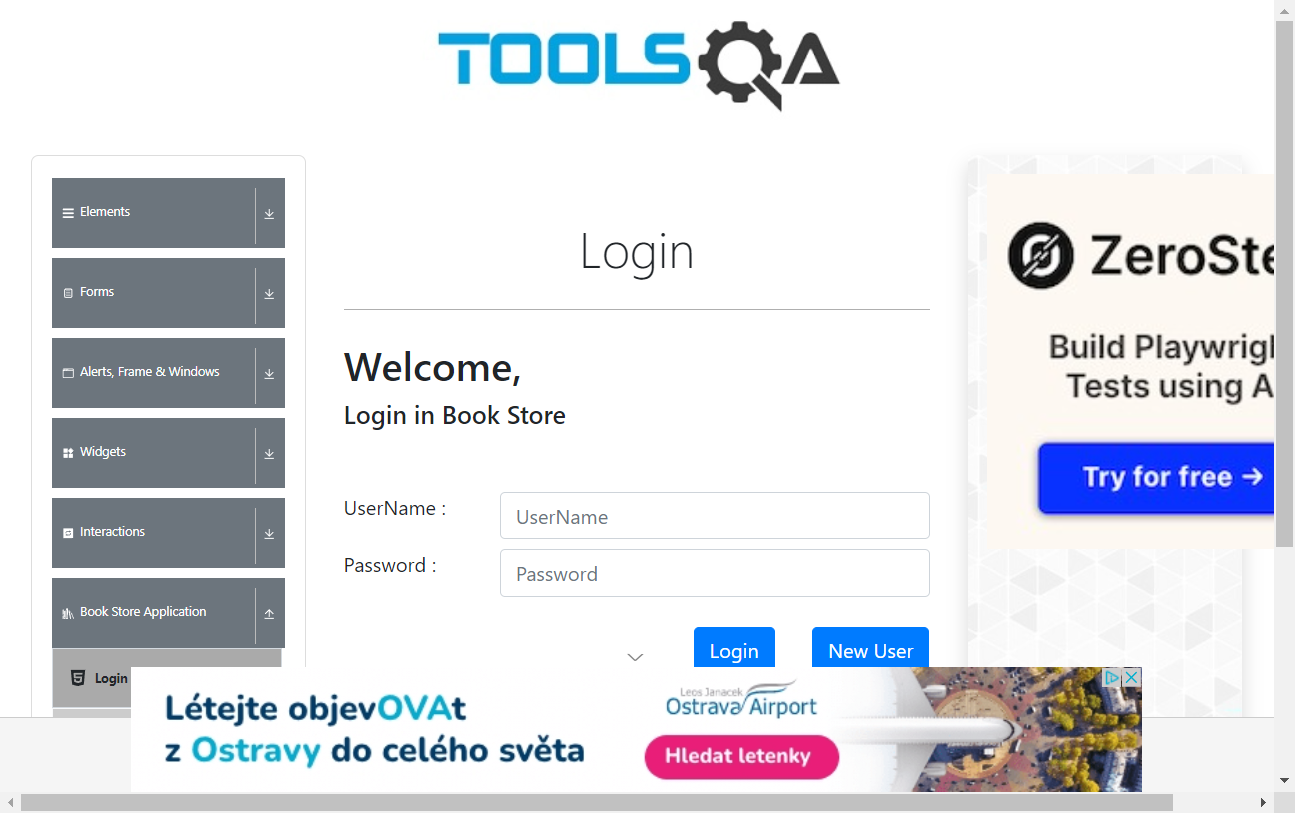
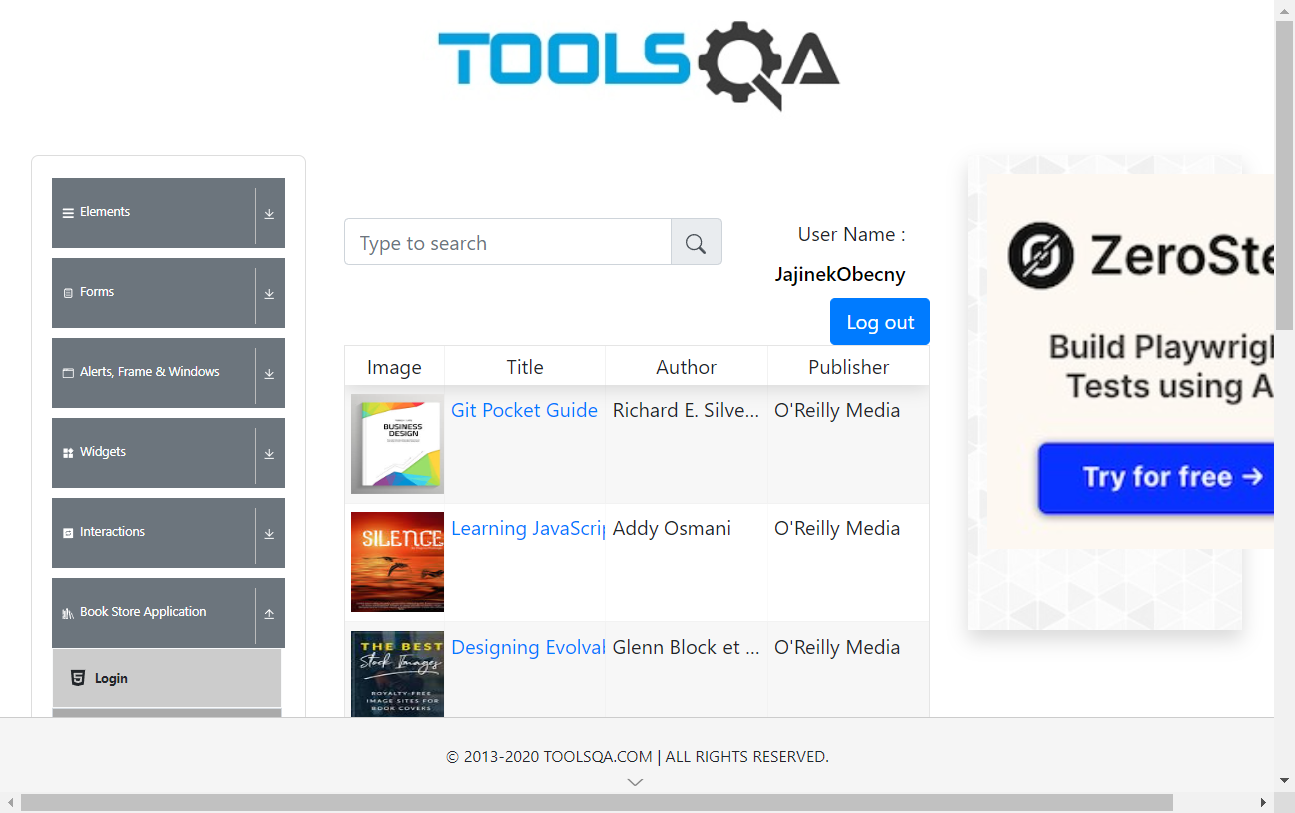
loginpage done

diff --git a/test/specs/test.e2e.js b/test/specs/test.e2e.js
@@ -2,6 +2,7 @@ import { expect } from '@wdio/globals'
 import LoginPage from '../pageobjects/login.page.js'
 import SecurePage from '../pageobjects/secure.page.js'
 import {customerFirstName, customerLastName, customerUserName, customerPassword, loggedUser, wrongMessage} from '../../test/specs/fixtures.js'
+import loginPage from '../pageobjects/login.page.js'
 
 
 describe('Demoqa Login Page', async () => {
@@ -57,7 +58,7 @@ describe('Demoqa Login Page', async () => {
 
     it('should redirect to login', async () => {
         await browser.url('/register');
-         const headline = $('h1');
+        const headline = $('h1');
         await expect (await headline.getText()).toEqual('Register');
         const redirButton = $('#gotologin');
         await expect(redirButton).toBeClickable();
@@ -77,10 +78,11 @@ describe('Demoqa Login Page', async () => {
         await expect(await headline.getText()).toEqual('Register');
     });
 
-    it('should not login user with wrong password', async () => {
+    it ('should not login user with wrong password', async () => {
         await browser.url('/login');
         const headline = $('h1');
         await expect (await headline.getText()).toEqual('Login');
+        
         const customerUserNameField = await $('input[id="userName"]');
         await customerUserNameField.setValue(customerFirstName);
 
@@ -121,18 +123,7 @@ describe('Demoqa Login Page', async () => {
         await browser.url('/login')
         await browser.saveScreenshot('login_page.png');
 
-        const title = await $('h1');
-        await expect (await title.getText()).toContain('Login');
-        const customerUserNameField =  await $('input[id="userName"]');
-
-        await customerUserNameField.setValue(customerUserName);
-
-        const customerPasswordField = await $('input[id="password"]');
-        await customerPasswordField.setValue(customerPassword);
-
-        const loginButton = await $('#login');
-        await expect (loginButton).toBeClickable();
-        await loginButton.click()     
+        await loginPage.login();
 
         await browser.pause(1000) //poor internet connection
         
@@ -142,18 +133,26 @@ describe('Demoqa Login Page', async () => {
 
         const currentLoggedUser = $('#userName-value')  ;
         await expect (await currentLoggedUser.getText()).toEqual(loggedUser)
+   
     });
 
-    it('should logout logged user', async ()=>{
+    it ('should logout logged user', async ()=>{
         //loggged from previous test
-        //logout
-        await browser.url('/books')
+         await browser.url('/books')
+         await browser.saveScreenshot('login_page.png');
 
+         await browser.pause(1000) //poor internet connection
+        //await loginPage.login();
+
+        //logout
+       
+        await loginPage.logout();
+/*
         const logoutButton = await $('#submit');
         await expect (logoutButton).toBeClickable();
         await logoutButton.click();
-
-            const headline = await $('h1');
+*/
+        const headline = await $('h1');
         await expect (await headline.getText()).toEqual('Login');
 
 

diff --git a/test/pageobjects/login.page.js b/test/pageobjects/login.page.js
@@ -1,5 +1,6 @@
 import { $ } from '@wdio/globals'
 import Page from './page.js';
+import {customerFirstName, customerLastName, customerUserName, customerPassword, loggedUser, wrongMessage} from '../../test/specs/fixtures.js'
 
 /**
  * sub page containing specific selectors and methods for a specific page
@@ -9,7 +10,7 @@ class LoginPage extends Page {
      * define selectors using getter methods
      */
     get inputUsername () {
-        return $('#username');
+        return $('#userName');
     }
 
     get inputPassword () {
@@ -19,18 +20,34 @@ class LoginPage extends Page {
     get btnSubmit () {
         return $('button[type="submit"]');
     }
-    get headline (){ 
+    get loginButton () {
+        return $('#login');
+    }
+
+    get headline () { 
         return $('h1')};
 
     
+    get logoutButton () {
+        return $('#submit')};
+
+ 
     /**
      * a method to encapsule automation code to interact with the page
      * e.g. to login using username and password
      */
-    async login (username, password) {
-        await this.inputUsername.setValue(username);
-        await this.inputPassword.setValue(password);
-        await this.btnSubmit.click();
+    async login () {
+        await browser.url('/login')
+        await this.inputUsername.setValue(customerUserName);
+        await this.inputPassword.setValue(customerPassword);
+
+        await (await this.loginButton).waitForClickable();
+        await this.loginButton.click();
+    }
+
+    async logout () {
+        await ((await this.logoutButton).waitForClickable());
+        await this.logoutButton.click();
     }
 
     /**

diff --git a/README.md b/README.md
@@ -1,2 +1,5 @@
 # bookstore
 automated testing project
+
+
+to run test: npm run wdio
